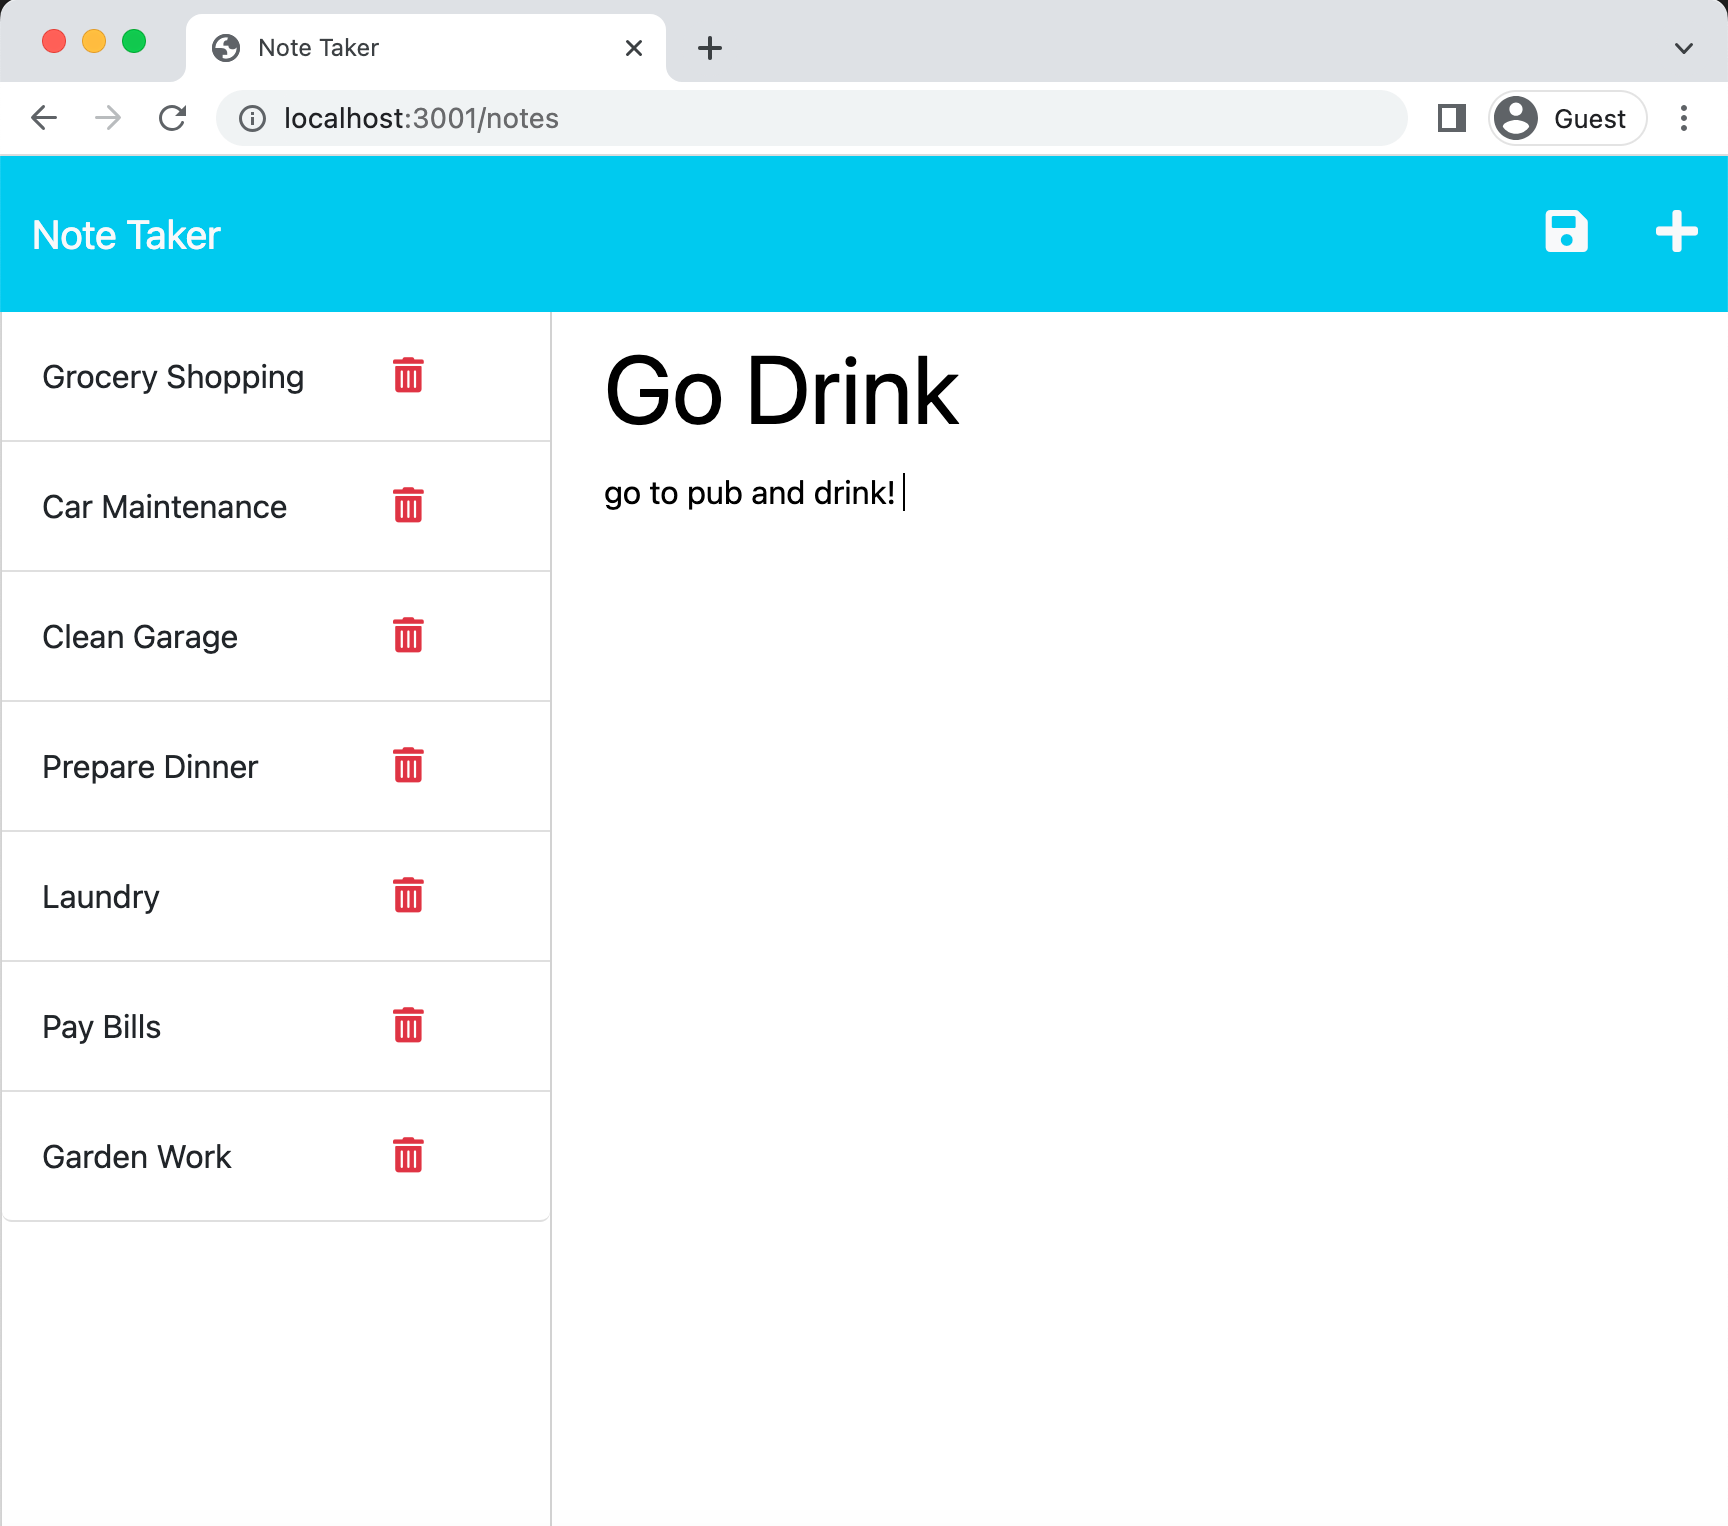
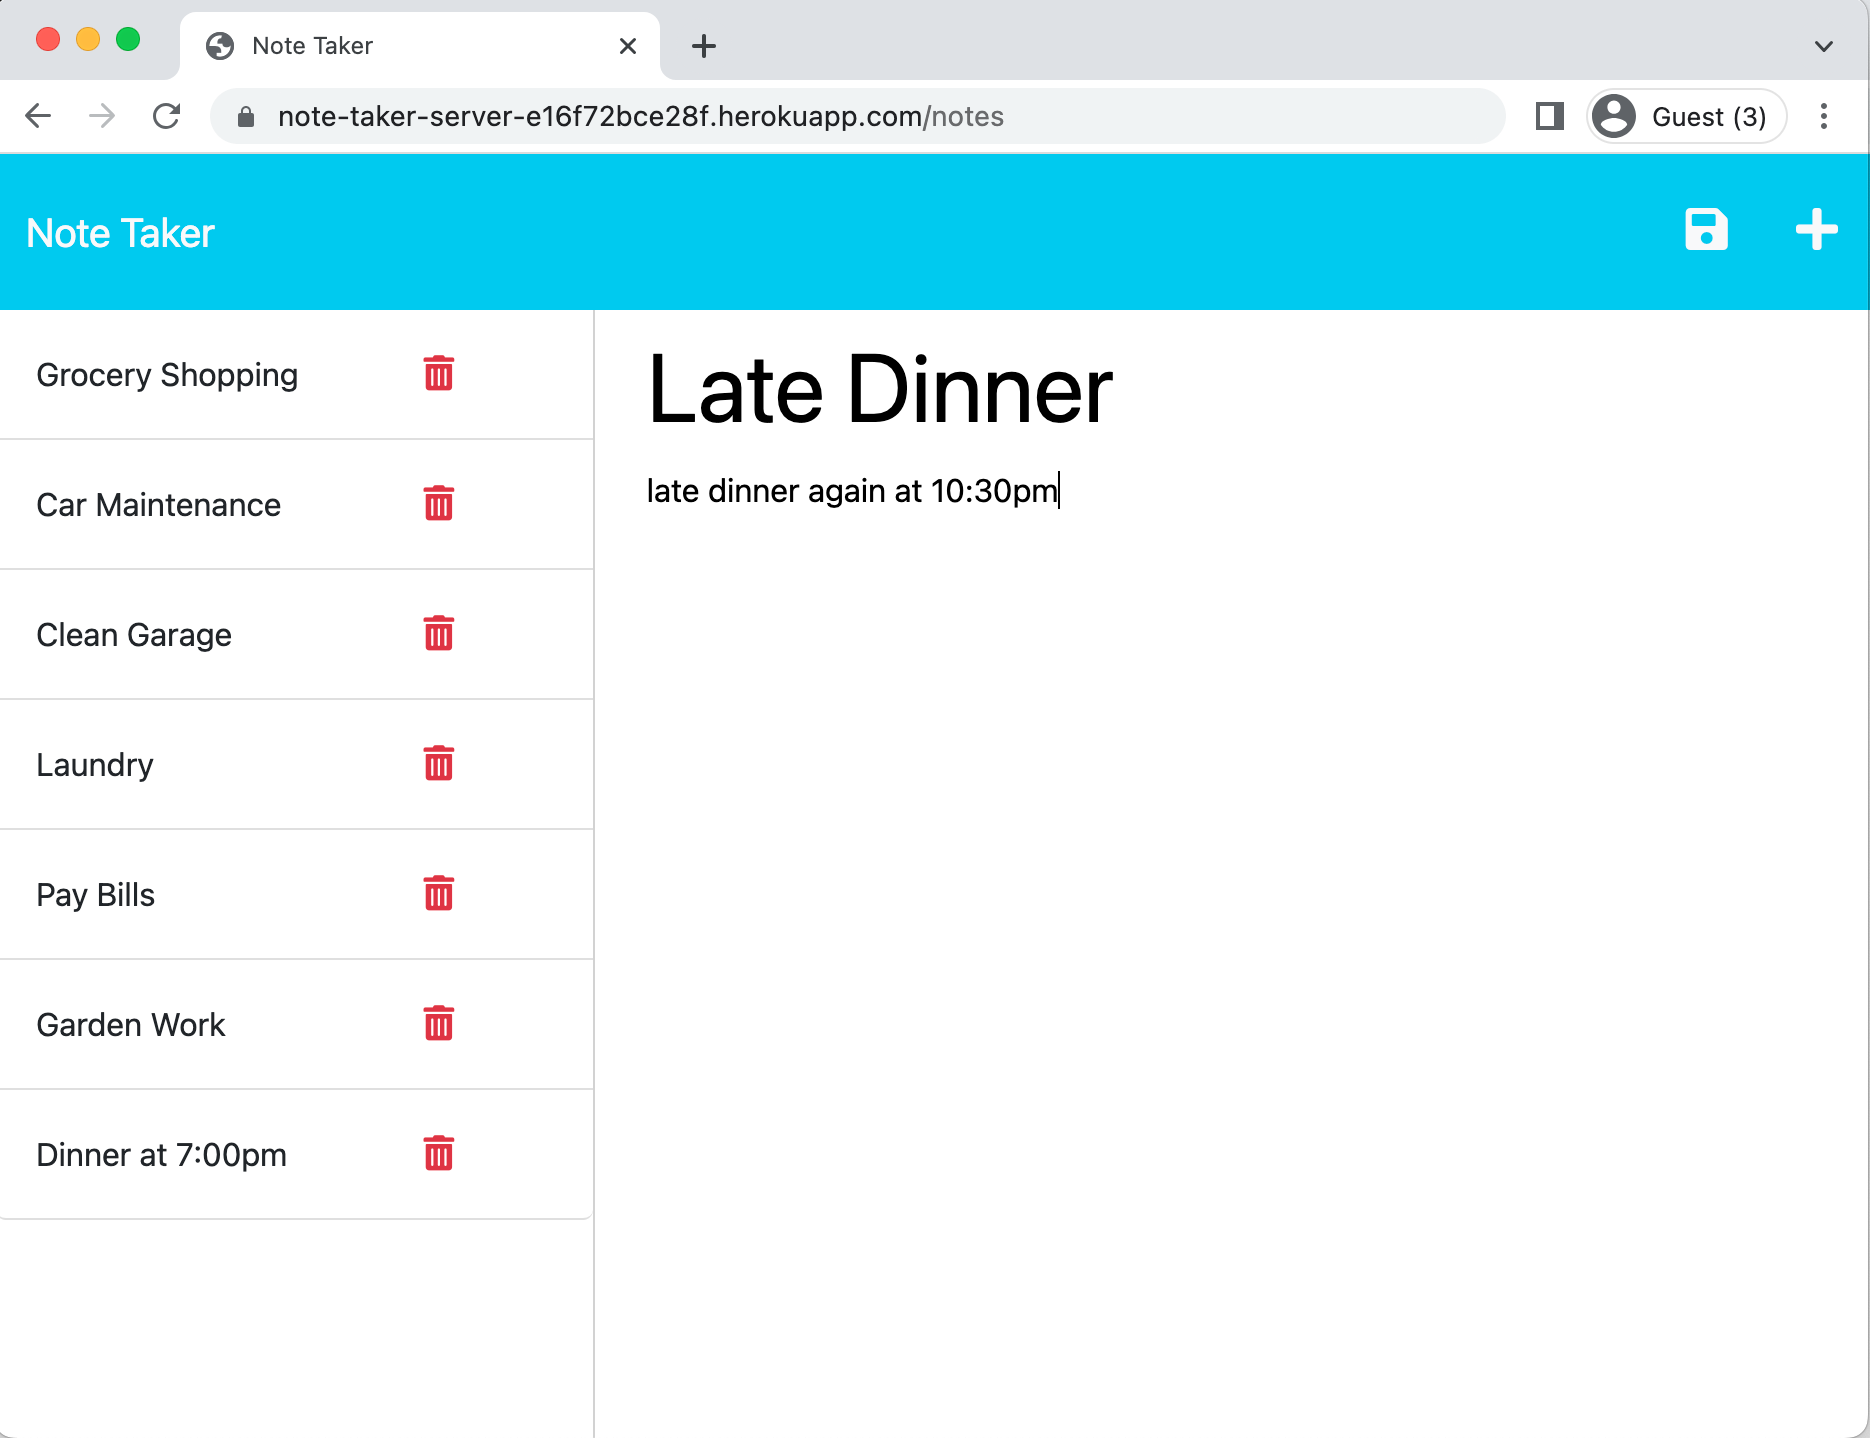
add updated screenshots from heroku

diff --git a/README.md b/README.md
@@ -76,7 +76,7 @@ It has implemented CRUD operation:
 1. C (Create): 
 User can create a new note with title and detail text and then click the save button to store in db.json.
 
-Editing the New note: "Go Drink" note
+Editing the New note: "Late Dinner" note
 ![Editing in Create](examples/Cedit.png)
 
 Saving the New Note:
@@ -101,14 +101,15 @@ Saving the update note
 4. D (Delete):
 On clicking the bin button on the note, the note will be deleted and it will also reflected in db.json.
 
-Before Delete, it is goting to delete "Go Drink" Note
+Before Delete, it is goting to delete "New Notes10" Note 
 ![Notes before delete](examples/Dbefore.png)
 
-After Delete, "go Drink" note deleted
+After Delete, "New Notes10 " note deleted
 ![Notes after delete](examples/Dafter.png)
 
 Besides those CRUD features, the app has more to give:
-1.  it will map to 404.html when no route can be found.
+1.  it will map to 404.html with the theme matched to existing design when no route can be found.
+![404](examples/404.png)
 2.  implementing cLog function so that on there is time display when logging to console.
 3.  middleware to log all the GET/POST/PUT/DELETE operations.
 
